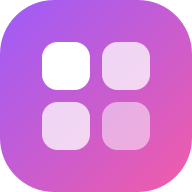
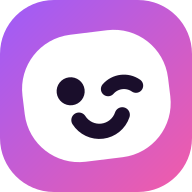
feat: rename the app to Pimpom (#17)

diff --git a/web/App.tsx b/web/App.tsx
@@ -6,13 +6,13 @@ import { useTranslation } from "react-i18next";
 
 import { NICKNAME_MAX_LENGTH } from "../shared/nickname";
 import { AppBackground } from "./components/AppBackground";
+import { BrandName, Buddy } from "./components/Brand";
 import { LanguagePicker } from "./components/LanguagePicker";
 import { NotificationToggle } from "./components/NotificationToggle";
 import { PlayerAvatar } from "./components/PlayerAvatar";
 import { Spinner } from "./components/states";
 import { ThemeToggle } from "./components/ThemeToggle";
 import { UpdatePrompt } from "./components/UpdatePrompt";
-import { WordMark } from "./components/WordMark";
 import { errorText } from "./errors";
 import { useLanguage } from "./i18n";
 import { Dashboard } from "./routes/Dashboard";
@@ -119,17 +119,17 @@ function Header() {
       <div className="mx-auto flex w-full max-w-5xl items-center justify-between gap-3 px-4 py-3">
         <a
           href="/"
-          className="group inline-flex items-center gap-2 font-display text-lg font-bold text-[var(--text-primary)] no-underline"
+          className="group inline-flex items-center gap-2 text-lg text-[var(--text-primary)] no-underline"
           onClick={(e) => {
             e.preventDefault();
             navigate("/");
           }}
         >
-          <WordMark
+          <Buddy
             animated
             className="size-7 text-accent transition-transform duration-[var(--dur-base)] ease-[var(--ease-bounce)] group-hover:rotate-12 group-hover:scale-110"
           />
-          <span>party</span>
+          <BrandName />
         </a>
         {/* `min-w-0` lets the nickname button truncate instead of pushing the row past a
             phone's width. */}
@@ -152,7 +152,7 @@ function RouteContent() {
   return (
     <main id="main-content" className="app-container">
       <div className="flex flex-col items-center gap-4 py-16 text-center">
-        <WordMark animated className="size-14 text-accent opacity-60" />
+        <Buddy animated className="size-14 text-accent opacity-60" />
         <h1 className="m-0 font-display text-2xl font-bold">{t("notFound.title")}</h1>
         <p className="m-0 text-[var(--text-muted)]">{t("notFound.body")}</p>
         <Button onPress={() => navigate("/")}>{t("notFound.back")}</Button>
@@ -171,7 +171,7 @@ function AppShell() {
         id="main-content"
         className="flex min-h-dvh animate-in flex-col items-center justify-center gap-5 duration-500 fade-in"
       >
-        <WordMark animated className="size-14 text-accent" />
+        <Buddy animated className="size-14 text-accent" />
         <Spinner label={t("app.loading")} />
       </main>
     );

diff --git a/web/components/Brand.tsx b/web/components/Brand.tsx
@@ -1,0 +1,72 @@
+// Pimpom's buddy: a soft winking blob, and the app's whole logo. The same
+// geometry is drawn as literals in public/favicon.svg and public/icon.svg —
+// keep the three in step, or the mark in the header and the mark on a home
+// screen drift apart.
+//
+// The body is `currentColor` so a caller tints it with a text utility; the
+// face is `--text-on-accent`, the one ink the palette guarantees is readable
+// on `--accent` in both themes. That pairing is the reason every call site
+// below tints the buddy with `text-accent` — tinting it any other colour
+// would leave the face unaudited.
+export function Buddy({
+  className = "size-6 text-current",
+  animated = false,
+}: {
+  className?: string;
+  animated?: boolean;
+}) {
+  return (
+    <svg
+      className={className}
+      viewBox="0 0 24 24"
+      aria-hidden="true"
+      focusable="false"
+      fill="currentColor"
+    >
+      <g
+        // The idle bob squashes on the way down, so the buddy reads as a
+        // character landing rather than a logo sliding;
+        // `prefers-reduced-motion` flattens it globally.
+        style={
+          animated
+            ? {
+                animation: "party-buddy-bob 2.8s var(--ease-out) infinite",
+                transformOrigin: "50% 88%",
+              }
+            : undefined
+        }
+      >
+        <g transform="rotate(-7 12 12)">
+          <rect x="2.6" y="4.2" width="18.8" height="16.4" rx="7" />
+          <circle cx="8.8" cy="11.4" r="1.8" fill="var(--text-on-accent)" />
+          <path
+            d="M13.6 11.7a2.7 2.7 0 0 1 3.6 0"
+            fill="none"
+            stroke="var(--text-on-accent)"
+            strokeWidth="1.85"
+            strokeLinecap="round"
+          />
+          <path
+            d="M9.4 15.2a3.1 3.1 0 0 0 5.6 0"
+            fill="none"
+            stroke="var(--text-on-accent)"
+            strokeWidth="1.95"
+            strokeLinecap="round"
+          />
+        </g>
+      </g>
+    </svg>
+  );
+}
+
+// The logotype. Two syllables, two tones — the second one carries the accent
+// the buddy is tinted with, which is what ties the word to the mark. Not
+// translated and not a heading on its own: it is the product's name, and the
+// callers decide what element it sits in.
+export function BrandName({ className = "" }: { className?: string }) {
+  return (
+    <span className={`font-display font-bold tracking-tight ${className}`}>
+      pim<span className="text-accent">pom</span>
+    </span>
+  );
+}

diff --git a/web/routes/NicknameGate.tsx b/web/routes/NicknameGate.tsx
@@ -6,9 +6,9 @@ import type { TFunction } from "i18next";
 import { useTranslation } from "react-i18next";
 
 import { NICKNAME_MAX_LENGTH } from "../../shared/nickname";
+import { BrandName, Buddy } from "../components/Brand";
 import { LanguagePicker } from "../components/LanguagePicker";
 import { ThemeToggle } from "../components/ThemeToggle";
-import { WordMark } from "../components/WordMark";
 import { errorText } from "../errors";
 import { useSession } from "../session";
 
@@ -63,9 +63,9 @@ export function NicknameGate() {
     >
       <div className="party-pop flex w-full max-w-md flex-col items-center gap-7 rounded-[var(--radius-2xl)] border border-[var(--border-subtle)] bg-[var(--surface-1)]/85 p-8 text-center shadow-[var(--shadow-3),var(--edge-highlight)] backdrop-blur-xl">
         <div className="flex flex-col items-center gap-3">
-          <WordMark animated className="size-16 text-accent" />
-          <h1 className="m-0 font-display text-4xl font-bold tracking-tight text-[var(--text-primary)]">
-            party
+          <Buddy animated className="size-20 text-accent" />
+          <h1 className="m-0 text-4xl text-[var(--text-primary)]">
+            <BrandName />
           </h1>
           <p className="m-0 text-balance text-[var(--text-secondary)]">{t("gate.tagline")}</p>
         </div>

diff --git a/web/styles.css b/web/styles.css
@@ -65,6 +65,8 @@
  *   accent-on-soft on accent-soft (chip-accent text)         7.32    7.25   >= 4.5
  *   pink-on-soft on pink-soft (secondary chip text)          7.30    4.83   >= 4.5
  *   text-on-accent on accent (primary button label)          6.10    5.47   >= 4.5
+ *   accent on surface-void (the wordmark's second syllable)  6.31    4.99   >= 4.5
+ *   accent on surface-1 (the same, on the sign-in card)      5.73    5.47   >= 4.5
  *   text-on-accent on danger (tightest status fill)          7.15    5.79   >= 4.5
  *   border-strong on surface-1 (input/button borders)        3.71    3.58   >= 3.0
  *   accent focus ring on surface-3 (tightest case)           4.32    4.63   >= 3.0
@@ -576,6 +578,25 @@ body {
   }
   50% {
     transform: translateY(-8%) rotate(3deg);
+  }
+}
+
+/* The buddy's idle. It squashes as it lands and stretches as it leaves, so
+ * the mark reads as a character with weight rather than a logo sliding up
+ * and down. Callers set `transform-origin` to the feet. */
+@keyframes party-buddy-bob {
+  0%,
+  100% {
+    transform: translateY(0) scale(1, 1);
+  }
+  40% {
+    transform: translateY(-9%) scale(0.97, 1.03);
+  }
+  62% {
+    transform: translateY(0) scale(1.04, 0.96);
+  }
+  80% {
+    transform: translateY(-2%) scale(1, 1);
   }
 }
 

diff --git a/web/badge.ts b/web/badge.ts
@@ -12,7 +12,7 @@
 // knows the full truth), `setMatchWaiting` only ever adds/removes the one
 // match id it is watching.
 
-const BASE_TITLE = "Party";
+const BASE_TITLE = "Pimpom";
 const BASE_FAVICON_HREF = "/favicon.svg";
 const FAVICON_SIZE = 32;
 
@@ -47,9 +47,9 @@ function applyFavicon(count: number): void {
     const ctx2d = canvas.getContext("2d");
     if (!ctx2d) return;
 
-    // Base glyph: the same gradient tile as the static favicon, redrawn here
-    // because a canvas cannot load the SVG synchronously. The four-tile mark
-    // is left off: at 32px it would be hidden under the count dot anyway.
+    // Base glyph: the same gradient plate as the static favicon, redrawn here
+    // because a canvas cannot load the SVG synchronously. The buddy itself is
+    // left off: at 32px its face would be hidden under the count dot anyway.
     // Canvas has no access to the stylesheet's custom properties, so these
     // two stops mirror `/favicon.svg` rather than a palette token.
     const gradient = ctx2d.createLinearGradient(0, 0, FAVICON_SIZE, FAVICON_SIZE);

diff --git a/index.html b/index.html
@@ -3,7 +3,7 @@
   <head>
     <meta charset="UTF-8" />
     <meta name="viewport" content="width=device-width, initial-scale=1.0" />
-    <title>Party</title>
+    <title>Pimpom</title>
     <meta name="description" content="Async party games you play a move at a time." />
     <link rel="icon" href="/favicon.svg" />
     <meta name="color-scheme" content="dark light" />
@@ -24,7 +24,7 @@
     <link rel="apple-touch-icon" href="/apple-touch-icon.png" />
     <meta name="mobile-web-app-capable" content="yes" />
     <meta name="apple-mobile-web-app-capable" content="yes" />
-    <meta name="apple-mobile-web-app-title" content="Party" />
+    <meta name="apple-mobile-web-app-title" content="Pimpom" />
     <!-- Opaque, so iOS keeps the web view below the status bar and no layout
          needs safe-area insets. `black-translucent` would need them. -->
     <meta name="apple-mobile-web-app-status-bar-style" content="black" />

diff --git a/e2e/pwa.spec.ts b/e2e/pwa.spec.ts
@@ -55,7 +55,7 @@ test("the app is installable", async ({ page }) => {
   const manifest = (await res.json()) as Manifest;
   // A browser offers no install at all for a manifest missing any of these.
   expect(manifest).toMatchObject({
-    name: "Party",
+    name: "Pimpom",
     start_url: "/",
     scope: "/",
     display: "standalone",

diff --git a/README.md b/README.md
@@ -1,4 +1,4 @@
-# party-dev
+# Pimpom
 
 A collection of small async, turn-based party games for playing with coworkers, hosted on
 Cloudflare's free tier (Worker + Static Assets + Durable Objects + D1).
@@ -157,7 +157,7 @@ values in at deploy time from a repo secret and a repo variable.
        Durable Objects edit permissions for the target account.
      - `CLOUDFLARE_ACCOUNT_ID` — your Cloudflare account ID.
    - **Settings → Secrets and variables → Actions → Variables:**
-     - `PUBLIC_BASE_URL` — the real public URL (e.g. `https://party-dev.<subdomain>.workers.dev`
+     - `PUBLIC_BASE_URL` — the real public URL (e.g. `https://pimpom.app`
        or a custom domain). Leaving this as the local-dev default in production means every Slack
        nudge links to localhost.
 

diff --git a/CLAUDE.md b/CLAUDE.md
@@ -236,7 +236,9 @@ and the two `theme-color` metas repeat the dark and light `--surface-void` from 
 as literals, the same duplication the theme bootstrap makes with its storage key; that spec fails
 when they drift. The icons are in `public/`: `icon-192.png` and `icon-512.png` are rendered from
 `favicon.svg`, and `icon-maskable-512.png` and `apple-touch-icon.png` from `icon.svg`, the
-full-bleed variant whose tiles sit inside the maskable safe zone.
+full-bleed variant whose buddy sits inside the maskable safe zone. Both SVGs draw the same buddy
+as `web/components/Brand.tsx`, as literals — a plain file cannot import the component — so a
+change to the mark has to be made in all three.
 
 ## Conventions
 
